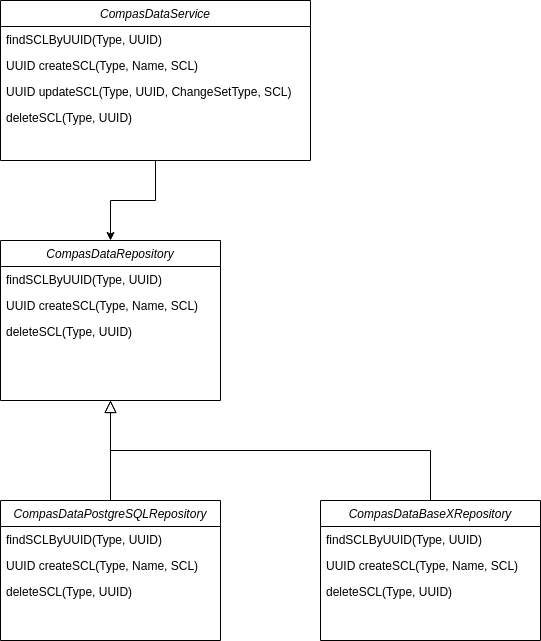
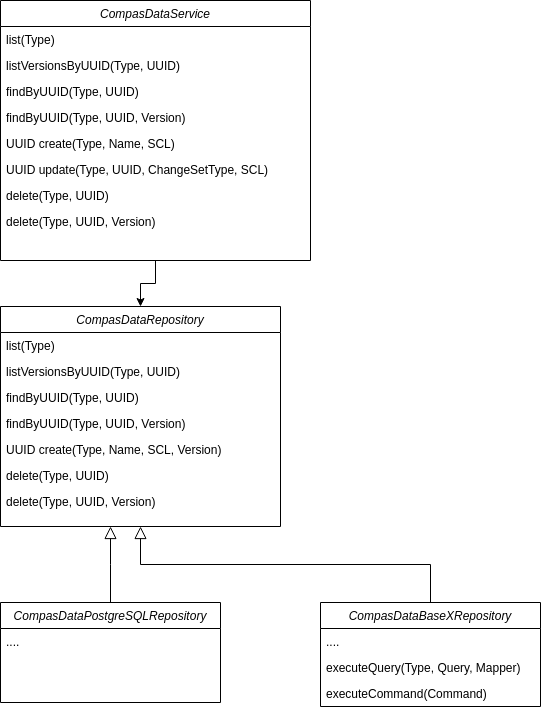
Update SCL Data Service documentation.

diff --git a/technical/COMPAS_SCL_DATA_SERVICE.md b/technical/COMPAS_SCL_DATA_SERVICE.md
@@ -33,22 +33,24 @@ The responsibility of the repository classes is to retrieve, store and delete en
 Nothing more than that.
 
 The Service class contains some logic regarding versions and private elements.
-- findSCLByUUID: Retrieve the latest version of an SCL with a UUID for a specific type of SCL.
-- createSCL: Stores a first version (1.0.0) of the SCL. Also adding the type and name as private elements to the SCL.
-- updateSCL: Retrieve the latest version. Copy the private elements from that record. Add a historical record to the Header. 
+- list: Returns the ID and Latest version of all SCL found for a specific type of SCL.
+- listVersionsByUUID: Returns all stored versions of a specific SCL found.
+- findByUUID: Retrieve the latest version of an SCL with a UUID for a specific type of SCL. 
+  Or if the version is passed that specific version of an SCL.
+- create: Stores a first version (1.0.0) of the SCL. Also adding the type and name as private elements to the SCL.
+- update: Retrieve the latest version. Copy the private elements from that record. Add a historical record to the Header. 
   Determine the new version, using the latest version and ChangeSetType.
   Depending on if we want to keep historical versions of the SCL.
   - Keep history: Add the new SCP to the storage with the new version.
   - No history: Update the existing SCP in the storage.
-- deleteSCL: Remove (all versions) of the SCL from the storage.
+- delete: Remove (all versions) of the SCL from the storage. Or if the version is passed that specific version of the SCL.
 
 ### BaseX
-There a some Basex specific choices made in storing the SCL. 
+There a some BaseX specific choices made in storing the SCL. 
 - For every type of SCL a separate database is created. This is quite easy done in BaseX.
   ![Databases](images/CoMPAS-SclDataService-Databases.png)
-- In these databases the SCL will be stored as "\<uuid\>/\<major-version\>/\<minor-version\>/\<patch-version\>". 
+- In these databases the SCL will be stored as "\<uuid\>/\<major-version\>/\<minor-version\>/\<patch-version\>/scl.xml". 
   This way it will be easy to store the different version and find the latest version.
-  Version part may be optional if no history will be saved.
-  
+
 ### PostgreSQL
 TODO
